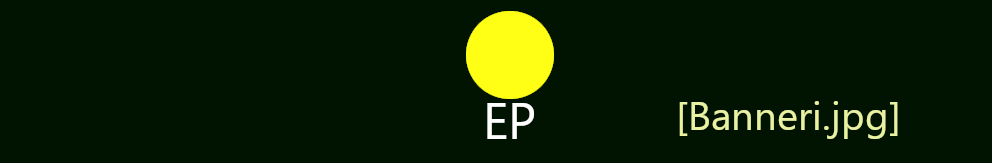
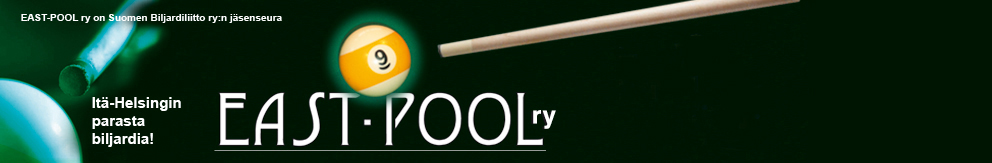
changed links

diff --git a/src/client/components/result_submit/MatchChooser.css b/src/client/components/result_submit/MatchChooser.css
@@ -1,0 +1,58 @@
+/* EI KÄYTÖSSÄ */
+
+#my_container {
+    display: flex;
+    flex-direction: column;
+    justify-content: center;
+    align-items: center;
+    /* background: lightblue; */
+    width: 100%;
+    height: 100vh;
+    gap: 50px;
+}
+
+#formContainer {
+    display: flex;
+    flex-direction: column;
+    justify-content: center;
+    align-items: center;
+    text-align: center;
+    /* background: lightblue; */
+    width: 100%;
+    height: 100vh;
+    gap: 20px;
+}
+
+.selectDiv {
+    /* background: lightblue; */
+    display: flex;
+    flex-direction: column;
+    max-width: 200px;
+}
+
+.selectedMatch {
+    font-size: 2em;
+    font-weight: bold;
+    text-align: center;
+    /* background: red; */
+}
+
+.selectionDiv {
+    /* background: red; */
+    display: flex;
+    flex-direction: column;
+    padding-top: 20px;
+    justify-items: center;
+    gap: 10px;
+}
+
+.dateDiv {
+    display: flex;
+    flex-direction: row;
+    gap: 10px;
+}
+
+#submitButton {
+    align-self: center;
+    /* background: blue; */
+}

diff --git a/src/client/components/layout/LayoutWrapper.tsx b/src/client/components/layout/LayoutWrapper.tsx
@@ -114,7 +114,7 @@ const ButtonAppBar = () => {
                 position="static" 
                 sx={{
                     backgroundColor: "#001401",
-                    backgroundImage: "url('http://www.eastpool.fi/images/Banneri.jpg')",
+                    backgroundImage: "url('Banneri.jpg')",
                     backgroundSize: "auto 100%",
                     backgroundRepeat: 'no-repeat',
                     opacity: "100%"
@@ -160,7 +160,7 @@ const LayoutWrapper: React.FC<{ children: ReactNode }> = ({ children }) => {
         <>
         {isMinimumL &&
         <Box overflow="hidden" width="100%" sx={{height: "163px", p: 0, m: 0, background: "#001401"}}>
-            <img src="http://www.eastpool.fi/images/Banneri.jpg"/>
+            <img src="Banneri.jpg"/>
         </Box>
         }
         {!isMinimumL && <ButtonAppBar />}

diff --git a/src/client/components/layout/SideNavigation.tsx b/src/client/components/layout/SideNavigation.tsx
@@ -5,7 +5,7 @@ import { Box } from "@mui/material";
  */
 const SideNavigation: React.FC = () => {
     const url = "http://www.eastpool.fi/"; 
-    const src = "http://www.eastpool.fi/Linkit.gif";
+    const src = "Linkit.gif";
     return (
         <Box sx={{minHeight: "700px", minWidth: "217px", overflow: "hidden", background: "#e1faed"}}>
             <Box maxHeight="700px">
